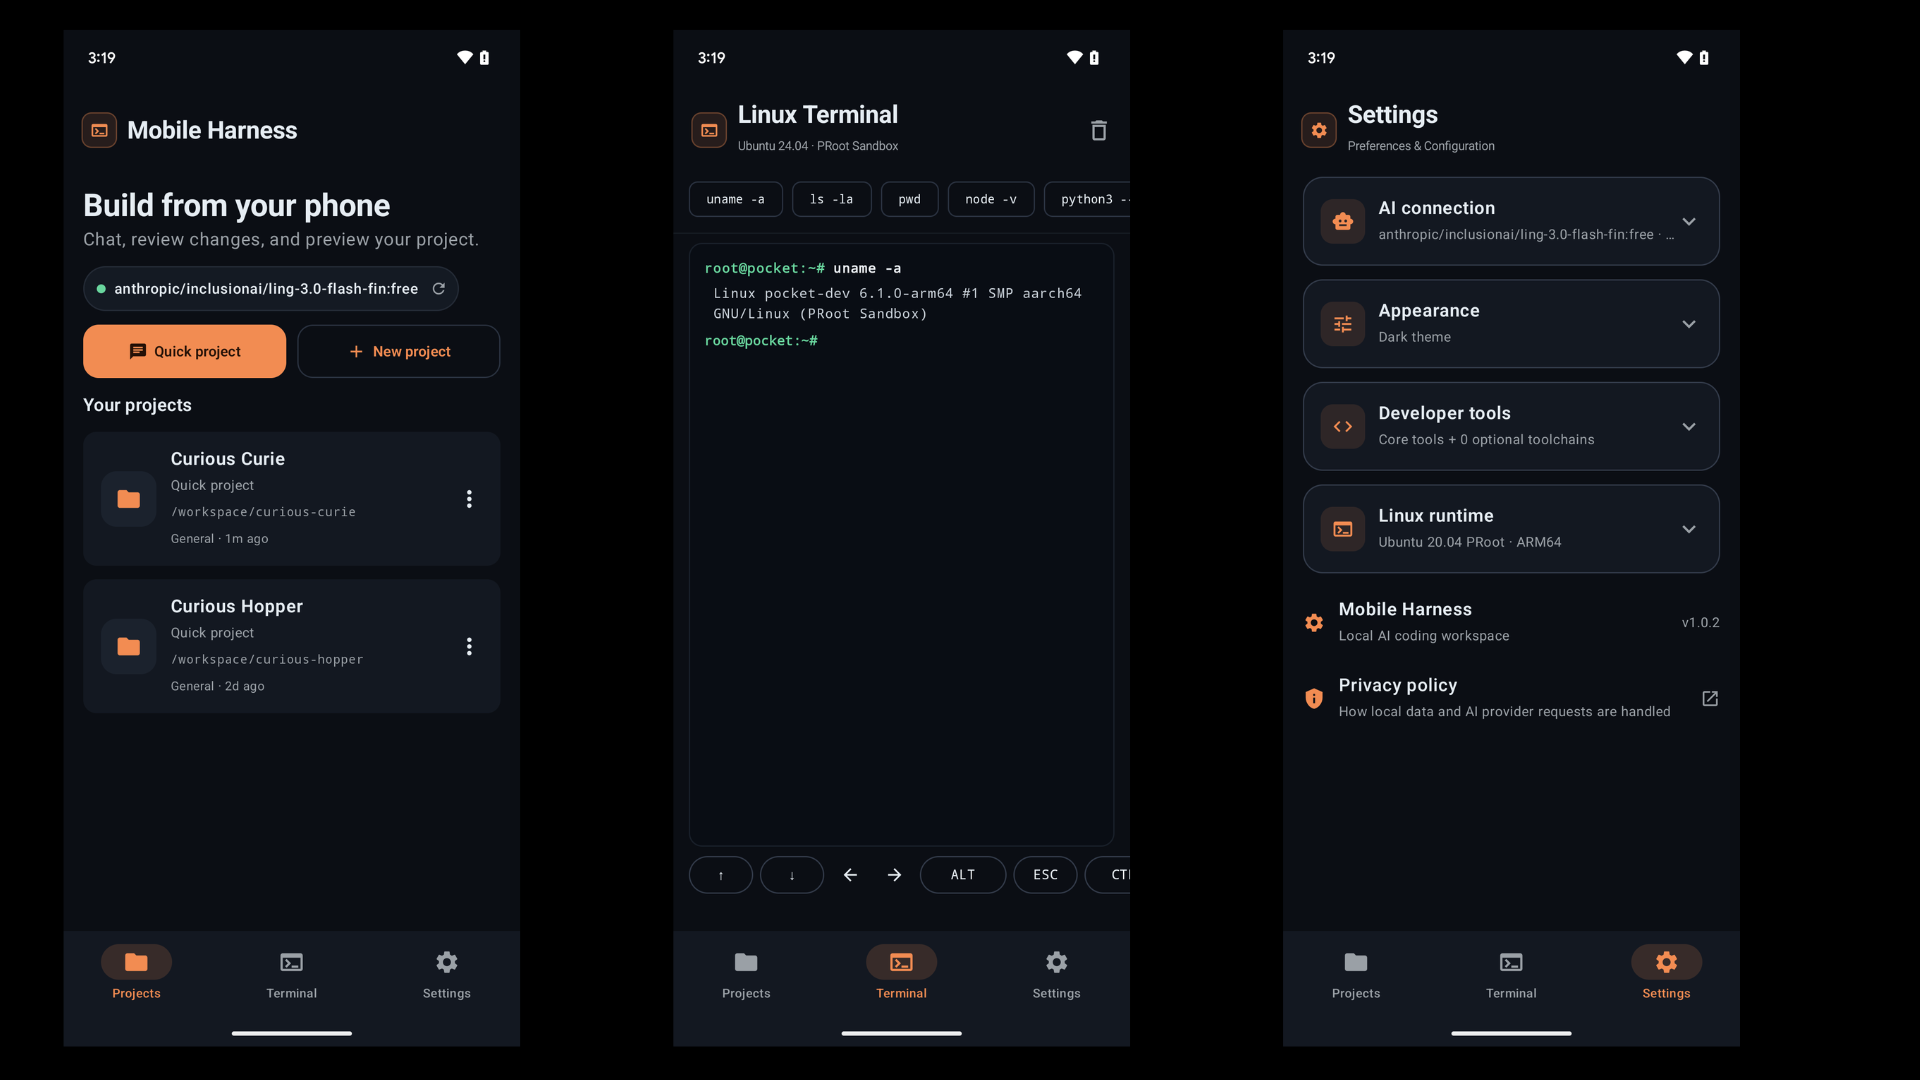
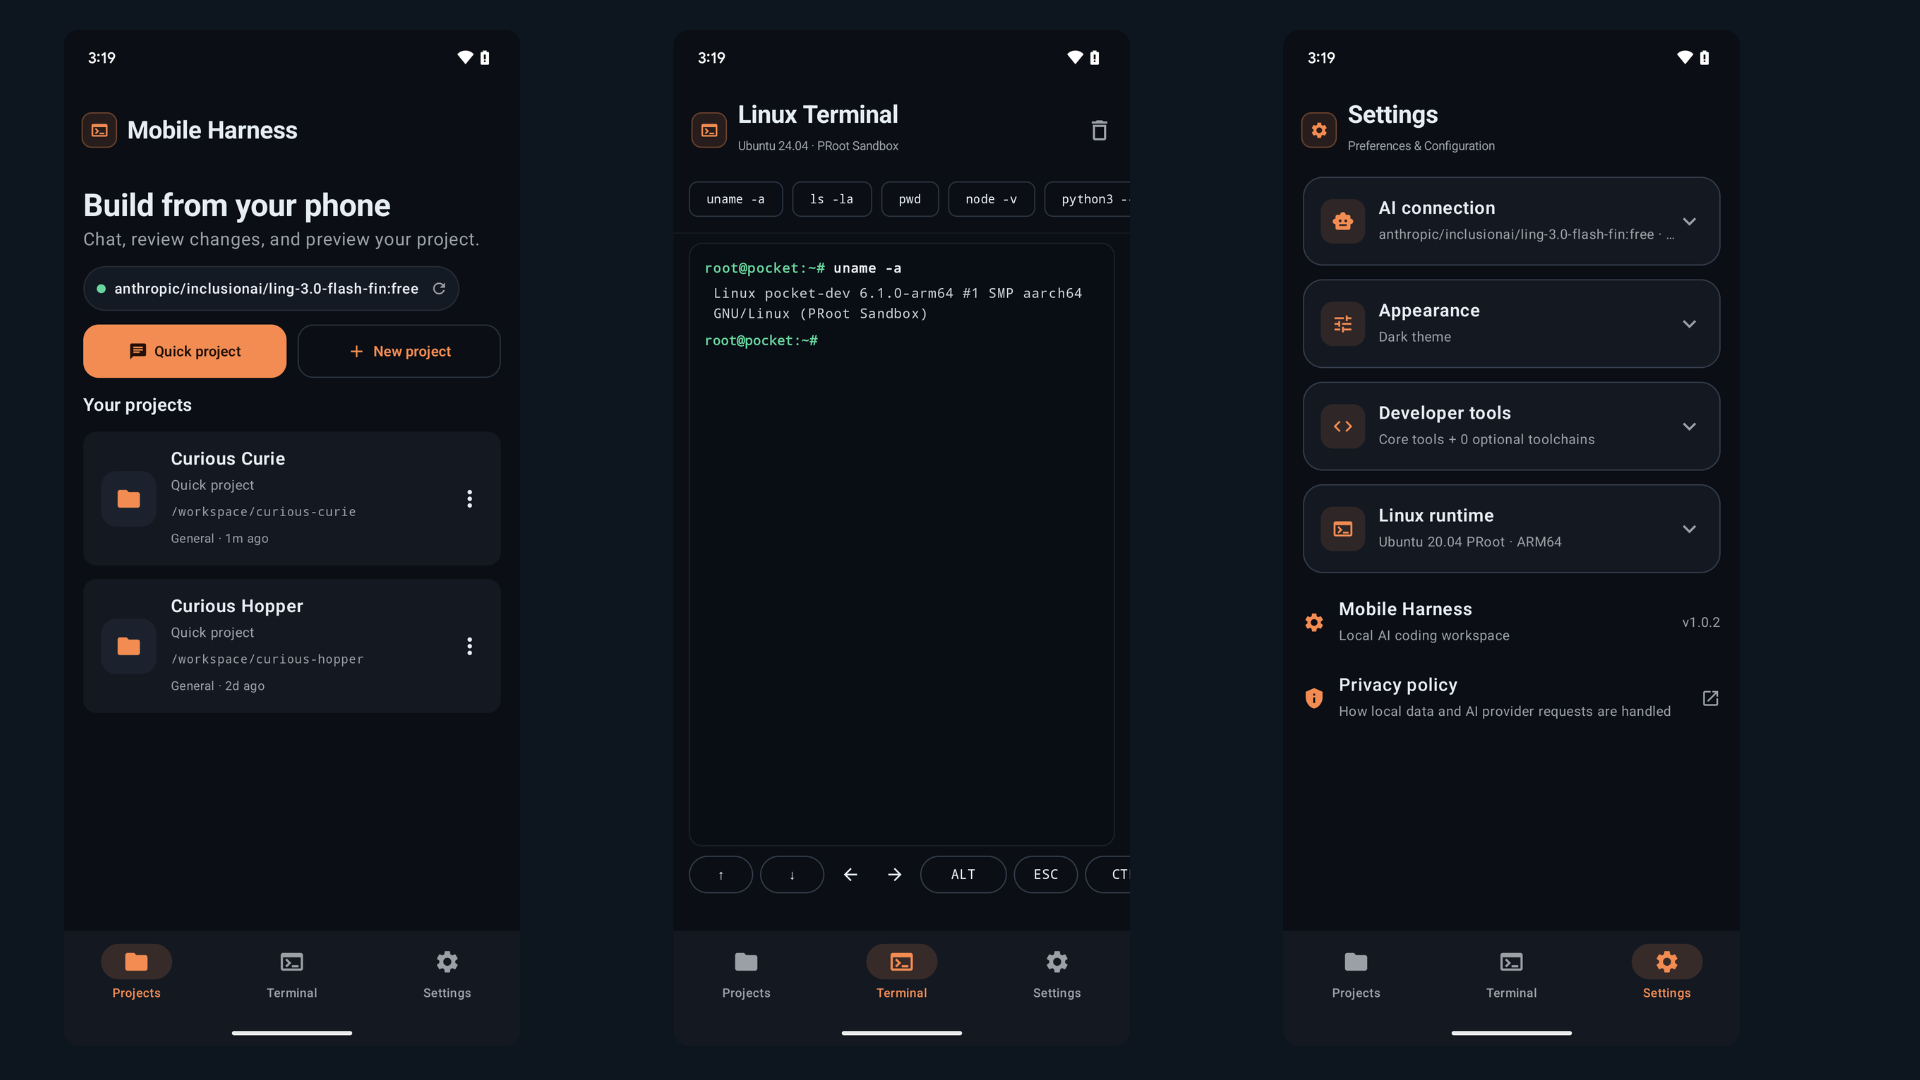
docs: refresh README media showcase

diff --git a/README.md b/README.md
@@ -17,8 +17,12 @@ Chat with a coding agent, edit files, run Linux commands, review changes, and pr
 <br />
 
 <p align="center">
-  <img src="assets/readme/product-workspace.png" alt="Mobile Harness projects, Linux terminal, and settings screens" width="880" />
+  <a href="https://youtu.be/QzAau52Z7yQ">
+    <img src="https://img.youtube.com/vi/QzAau52Z7yQ/maxresdefault.jpg" alt="Watch the Mobile Harness setup and product demo" width="880" />
+  </a>
 </p>
+
+<p align="center"><sub>▶ Watch the setup and product demo</sub></p>
 
 > [!IMPORTANT]
 > Mobile Harness is alpha software for ARM64 Android devices. Its PRoot environment is not a hardened security sandbox. Only open projects you own or trust.
@@ -26,6 +30,10 @@ Chat with a coding agent, edit files, run Linux commands, review changes, and pr
 ## Your development environment, in your pocket
 
 Mobile Harness pairs a native Jetpack Compose interface with a private Ubuntu environment. The result is a focused mobile workspace that feels approachable on the surface and runs real development tools underneath—without root access or a separate Termux installation.
+
+<p align="center">
+  <img src="assets/readme/product-workspace.png" alt="Mobile Harness projects, Linux terminal, and settings screens" width="880" />
+</p>
 
 | | |
 | --- | --- |
